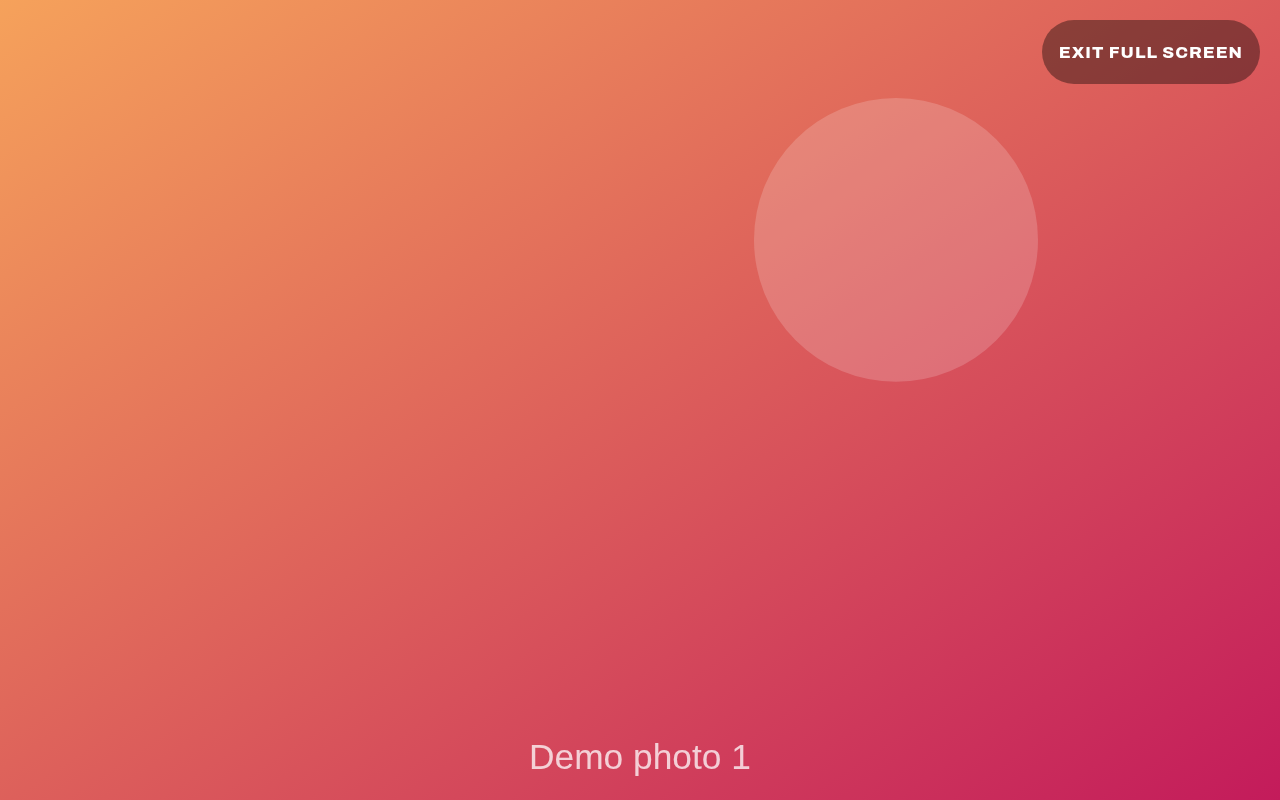
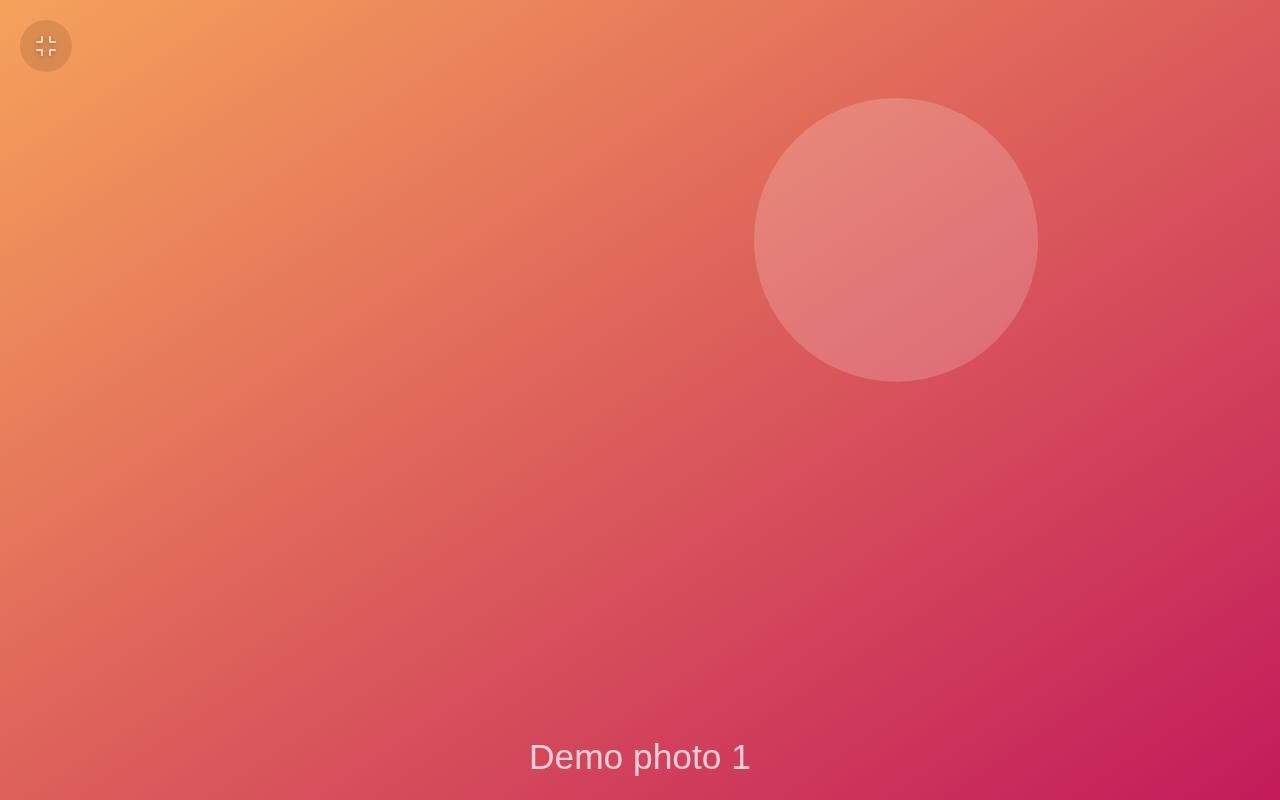
Use subtle circular fullscreen controls at the top left

Changed region(s): [[0.8125, 0.0, 1.0, 0.125], [0.0, 0.0312, 0.0625, 0.0938]]

diff --git a/frontend/js/views/photos.js b/frontend/js/views/photos.js
@@ -70,7 +70,8 @@
         V.el = el;
         el.innerHTML = '<div class="photos">' +
           '<div class="ph-stage"></div>' +
-          '<button class="ph-btn ph-exit" data-photo-exit aria-label="Exit full screen">Exit full screen</button>' +
+          '<button class="ph-btn ph-screen ph-enter" data-photo-fullscreen aria-label="Full screen" title="Full screen">' + App.icon('expand', 24) + '</button>' +
+          '<button class="ph-btn ph-screen ph-exit" data-photo-exit aria-label="Exit full screen" title="Exit full screen">' + App.icon('shrink', 24) + '</button>' +
           '<div class="ph-empty serif" hidden>No photos yet.<br><i>Add some from your phone at <b>' + location.host + '/upload</b></i></div>' +
           '<button class="ph-zone ph-zone--l" data-prev aria-label="Previous"></button>' +
           '<button class="ph-zone ph-zone--c" data-loud aria-label="Show details"></button>' +
@@ -79,7 +80,6 @@
             return '<button data-layout="' + l[0] + '" class="' + (l[0] === V.layout ? 'is-on' : '') + '">' + l[1] + '</button>';
           }).join('') + '</div></div>' +
           '<div class="ph-bottom">' +
-          '  <button class="ph-btn" data-photo-fullscreen>Full screen</button>' +
           '  <button class="ph-btn" data-prev>' + App.icon('left', 30) + '</button>' +
           '  <button class="ph-btn ph-btn--fav" data-fav>' + App.icon('heart', 30) + '<span>Favourite</span></button>' +
           '  <button class="ph-btn" data-next>' + App.icon('right', 30) + '</button>' +

diff --git a/frontend/css/views/photos.css b/frontend/css/views/photos.css
@@ -60,9 +60,20 @@
 .ph-connect[hidden] { display: none; }
 
 /* Explicit viewing mode: preserve the slide, remove chrome, and keep one way out. */
-.ph-exit { display: none; position: absolute; top: 20px; right: 20px; z-index: 5; }
+.ph-screen {
+  position: absolute; top: 20px; left: 20px; z-index: 5;
+  width: 52px; height: 52px; min-width: 52px; padding: 0; border-radius: 50%;
+  background: rgba(0, 0, 0, .18); color: rgba(255, 255, 255, .85);
+}
+.ph-screen .i { filter: drop-shadow(0 1px 2px rgba(0, 0, 0, .45)); }
+.ph-screen:focus-visible { outline: 2px solid #fff; outline-offset: 3px; }
+.ph-exit { display: none; background: rgba(0, 0, 0, .1); color: rgba(255, 255, 255, .7); }
+@media (hover: hover) {
+  .ph-screen:hover { background: rgba(0, 0, 0, .25); color: #fff; }
+}
 .stage.is-photo-fullscreen > .rail { display: none; }
 .stage.is-photo-fullscreen > .views { grid-column: 1 / -1; grid-row: 1; }
+.stage.is-photo-fullscreen .ph-enter,
 .stage.is-photo-fullscreen .ph-top,
 .stage.is-photo-fullscreen .ph-bottom,
 .stage.is-photo-fullscreen .ph-zone,

diff --git a/frontend/js/icons.js b/frontend/js/icons.js
@@ -1,5 +1,7 @@
 // Minimal stroke icon set (24×24 grid). Usage: App.icon('home', 28)
 window.ICONS = {
+  expand: '<path d="M8 3H3v5M16 3h5v5M21 16v5h-5M3 16v5h5"/>',
+  shrink: '<path d="M3 8h5V3M16 3v5h5M21 16h-5v5M8 21v-5H3"/>',
   home: '<path d="M3 11l9-7 9 7"/><path d="M5 10v10h14V10"/>',
   calendar: '<rect x="3" y="5" width="18" height="16" rx="2"/><path d="M3 10h18M8 3v4M16 3v4"/>',
   cart: '<path d="M3 4h2.2l2.3 11h10.8L21 8H6.5"/><circle cx="10" cy="19.5" r="1.5"/><circle cx="17" cy="19.5" r="1.5"/>',

diff --git a/PATCHES.md b/PATCHES.md
@@ -11,6 +11,6 @@ Keep this list short. Every patch here has to be carried across `git subtree pul
 | Frame grid sizing | `frontend/css/base.css`, `frontend/css/views/home.css` | Prevent intrinsic card widths from expanding the home grid beyond the 1280×800 frame |
 | Offline layout regression check | `frontend/tools/check-layout.mjs`, `frontend/package.json`, `frontend/package-lock.json` | Capture frame-sized screenshots and check font loading, clock spacing and card bounds without deployment |
 | Preserve photo colours at night | `frontend/css/base.css`, `frontend/js/app.js`, `frontend/tools/check-photo-colours.mjs`, `frontend/package.json` | Apply the night filter to UI regions rather than the shared view container, preserving slideshow and home-tile image colours. |
-| Explicit photo full screen | `frontend/js/app.js`, `frontend/js/device.js`, `frontend/js/views/photos.js`, `frontend/css/views/photos.css`, `frontend/tools/check-photo-fullscreen.mjs`, `frontend/package.json` | Keep the current slide/layout with only an exit control; suppress automatic sleep and reloads until exit, with native full-screen and wake-lock support where available. |
+| Explicit photo full screen | `frontend/js/icons.js`, `frontend/js/app.js`, `frontend/js/device.js`, `frontend/js/views/photos.js`, `frontend/css/views/photos.css`, `frontend/tools/check-photo-fullscreen.mjs`, `frontend/package.json` | Keep the current slide/layout with only an exit control; suppress automatic sleep and reloads until exit, with native full-screen and wake-lock support where available. |
 
 Planned: hide tabs whose capability `/api/state` reports as unavailable (PRD 002).

diff --git a/README.md b/README.md
@@ -70,8 +70,8 @@ use the existing configurable rest timeout before entering the same image-only a
 Night and screen-off schedules still take precedence, and open dialogs keep the normal timeout.
 Photo colours stay unchanged at night; only the dashboard UI receives the night tint.
 
-Use **Full screen** in Photos to keep the current slideshow on screen until you exit.
-Only **Exit full screen** remains visible; Escape or navigating away also exits. This mode
+Use the circular expand icon at the top left in Photos to keep the current slideshow on screen
+until you exit. Only the subtle circular shrink icon remains visible at the top left; Escape or navigating away also exits. This mode
 suspends the app's idle, night/scheduled-off and everyone-away sleep transitions, and postpones
 automatic deploy reloads. Normal timers resume from the time you exit. The browser's native
 full-screen API and screen wake lock are used where available; unsupported or denied browser
